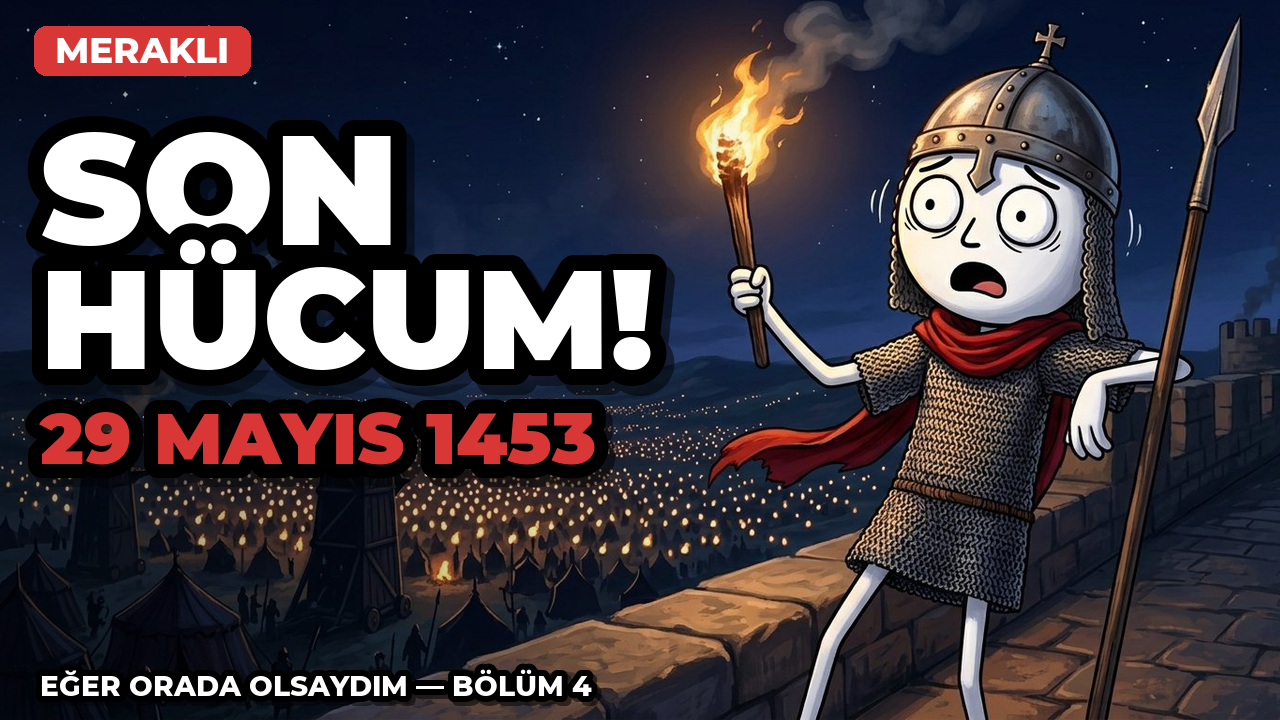
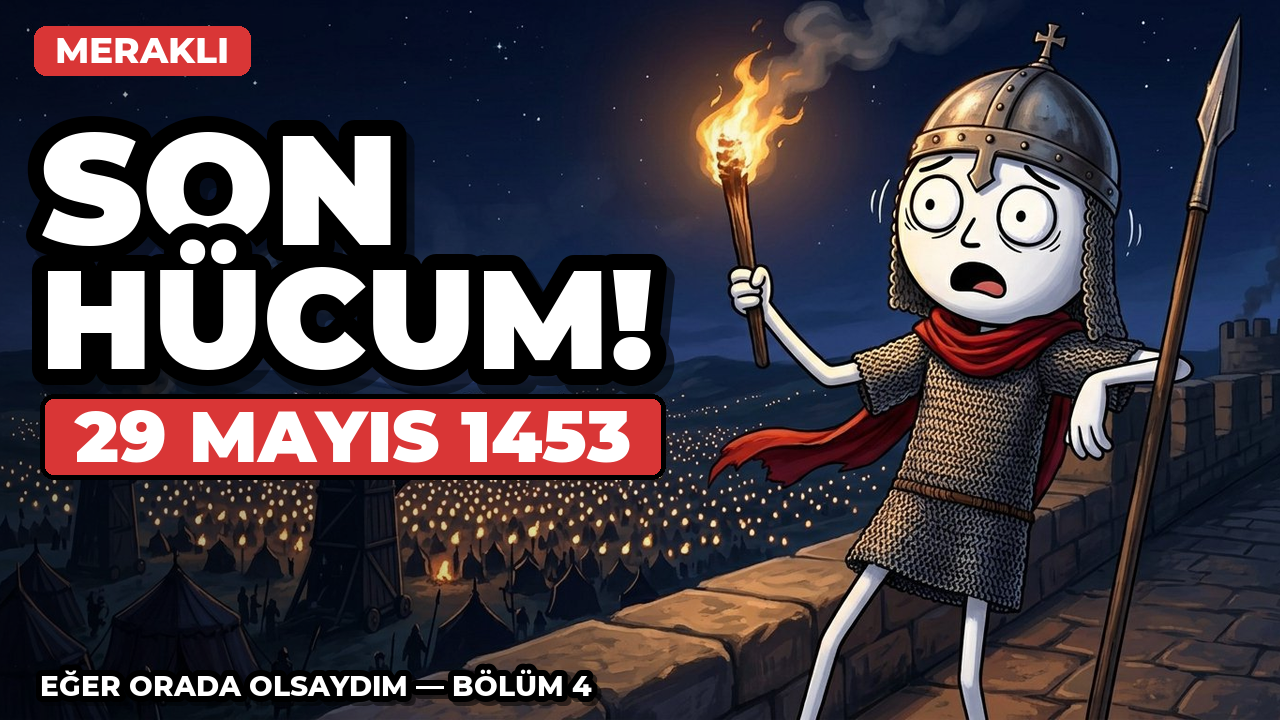
KAPAK v4.1: vurgu satiri kirmizi kutu + beyaz yaziya cevrildi (ornek kapak imzasi: kirmizi blok vurgular %15-24) — 13 kapak yeniden render + ONIZLEME

Changed region(s): [[0.0, 0.55, 0.5312, 0.6722]]

diff --git a/araclar/thumbnail_yap.py b/araclar/thumbnail_yap.py
@@ -111,15 +111,17 @@ def kapak_yap(no, ayar):
                stroke_width=16, stroke_fill=SIYAH + (255,))
         y += (kutu[3] - kutu[1]) + 26
 
-    # 3) VURGU satırı — kanal kırmızısı, başlığa yakın punto (örnek
-    #    kapaklarda kırmızı alan %15-24: vurgu küçük aksan değil, ikinci
-    #    ana öğe)
+    # 3) VURGU — KIRMIZI KUTU içinde beyaz yazı (örnek kapak imzası:
+    #    kırmızı %15-24 blok vurgular; her kapakta düzgün kırmızı varlık)
     y += 4
-    font, kutu = yazi_sigdir(d, ayar["vurgu"], F_BLACK, 600, 132, 14)
-    d.text((x0 + 7, y + 9), ayar["vurgu"], font=font, fill=SIYAH + (140,),
-           stroke_width=14, stroke_fill=SIYAH + (140,))
-    d.text((x0, y), ayar["vurgu"], font=font, fill=KIRMIZI + (255,),
-           stroke_width=14, stroke_fill=SIYAH + (255,))
+    font, kutu = yazi_sigdir(d, ayar["vurgu"], F_BLACK, 560, 108, 0)
+    tw, th = kutu[2] - kutu[0], kutu[3] - kutu[1]
+    px_, py_ = 34, 16
+    d.rounded_rectangle([x0, y, x0 + tw + 2 * px_, y + th + 2 * py_],
+                        radius=14, fill=KIRMIZI + (255,),
+                        outline=SIYAH + (255,), width=5)
+    d.text((x0 + px_ - kutu[0], y + py_ - kutu[1]), ayar["vurgu"],
+           font=font, fill=BEYAZ + (255,))
 
     # 4) sol alt seri etiketi
     etiket = f"EĞER ORADA OLSAYDIM — BÖLÜM {int(no)}"
